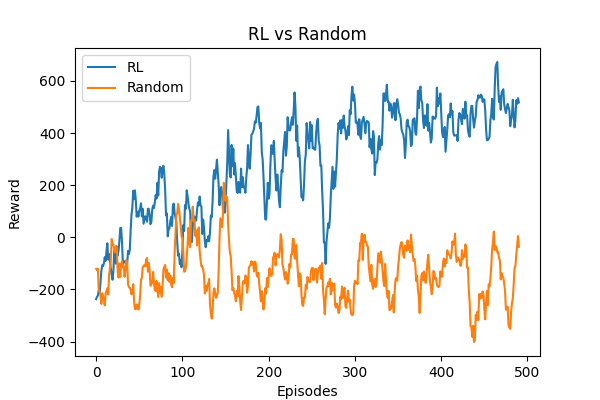
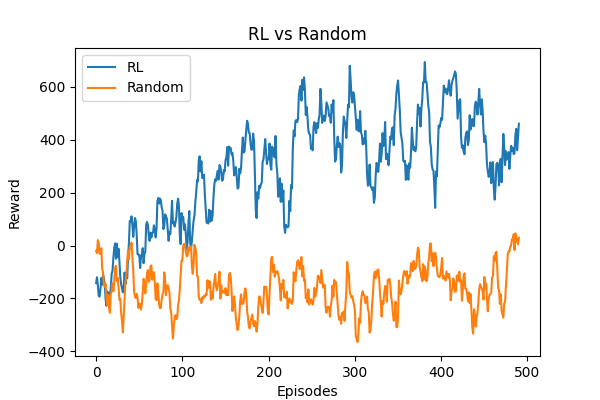
Final project updates with results and graphs

diff --git a/agent.py b/agent.py
@@ -10,7 +10,7 @@ class QLearningAgent:
 
         self.alpha = alpha
         self.gamma = gamma
-        self.epsilon = epsilon
+        self.epsilon = epsilon 
 
     def get_q(self, state, action):
         return self.q_table.get((state, action), 0)